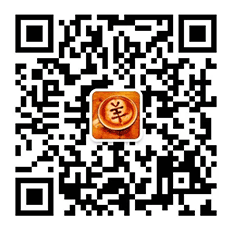
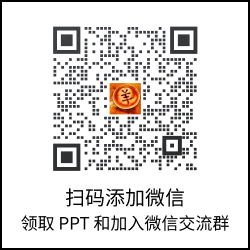
update wechat code

diff --git a/examples/cocos-creator-multiplayer/README.md b/examples/cocos-creator-multiplayer/README.md
@@ -10,8 +10,15 @@
 https://tsrpc.cn/fight/index.html
 (可浏览器多开体验多人效果)
 
-**在线教程**
-https://1drv.ms/p/s!AviSVsaYsolWnh7DCp2Y8g_NtDbA?e=67ZqqS
+## 在线教程
+- 文章：
+    - [2 天做了个多人实时对战，200ms 延迟竟然也能丝滑流畅？](https://mp.weixin.qq.com/s/V1YWPF5LmY-l1L5LF2nR3A)
+- 视频：
+    - [2021-12-04 Cocos Star Meeting 深圳站](https://www.bilibili.com/video/BV16F411z7iP)
+- Github 源码地址
+    - https://github.com/k8w/tsrpc-examples/tree/main/examples/cocos-creator-multiplayer
+
+![](README_assets/wechat.png)
 
 <img src="README_assets/1.jpg" style="width: 300px; margin: 10px" /> <img src="README_assets/2.jpg" style="width: 300px; margin: 10px" /> <img src="README_assets/3.jpg" style="width: 300px; margin: 10px" /> <img src="README_assets/4.jpg" style="width: 300px; margin: 10px" /> <img src="README_assets/5.jpg" style="width: 300px; margin: 10px" />
 
@@ -41,14 +48,6 @@ npm run dev
 2. 然后用 Cocos Creator 3.3.2 以上版本打开前端项目（`frontend` 目录）
 
 **注意：前端项目需要先 `npm install` 后再打开 Cocos，如果报错，可以关闭 Cocos 后重启试一下。**
-
-## 微信交流群
-
-欢迎加入 TSRPC 和 TypeScript 全栈开发学习交流群：
-
-（请注明来意）
-
-![](README_assets/wechat.png)
 
 ## 效果预览
 
